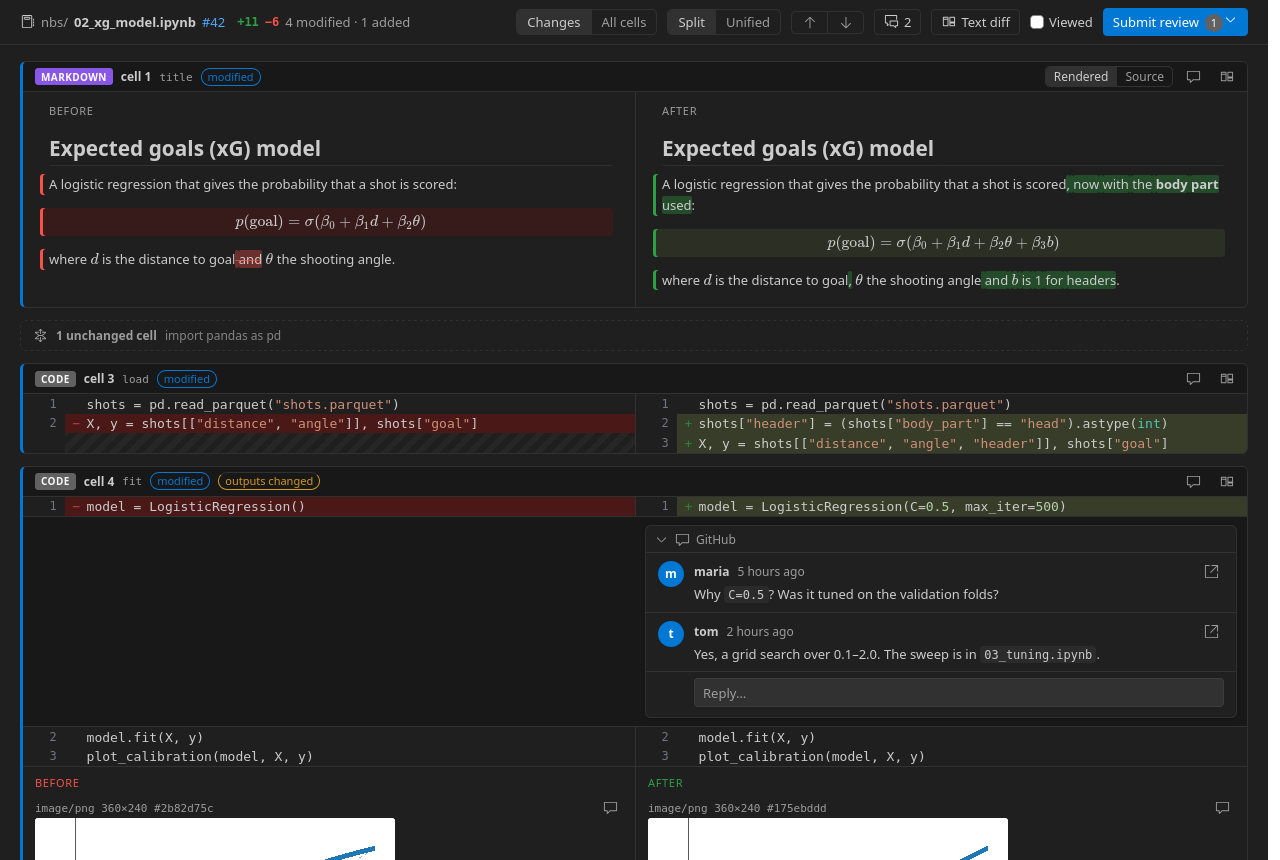
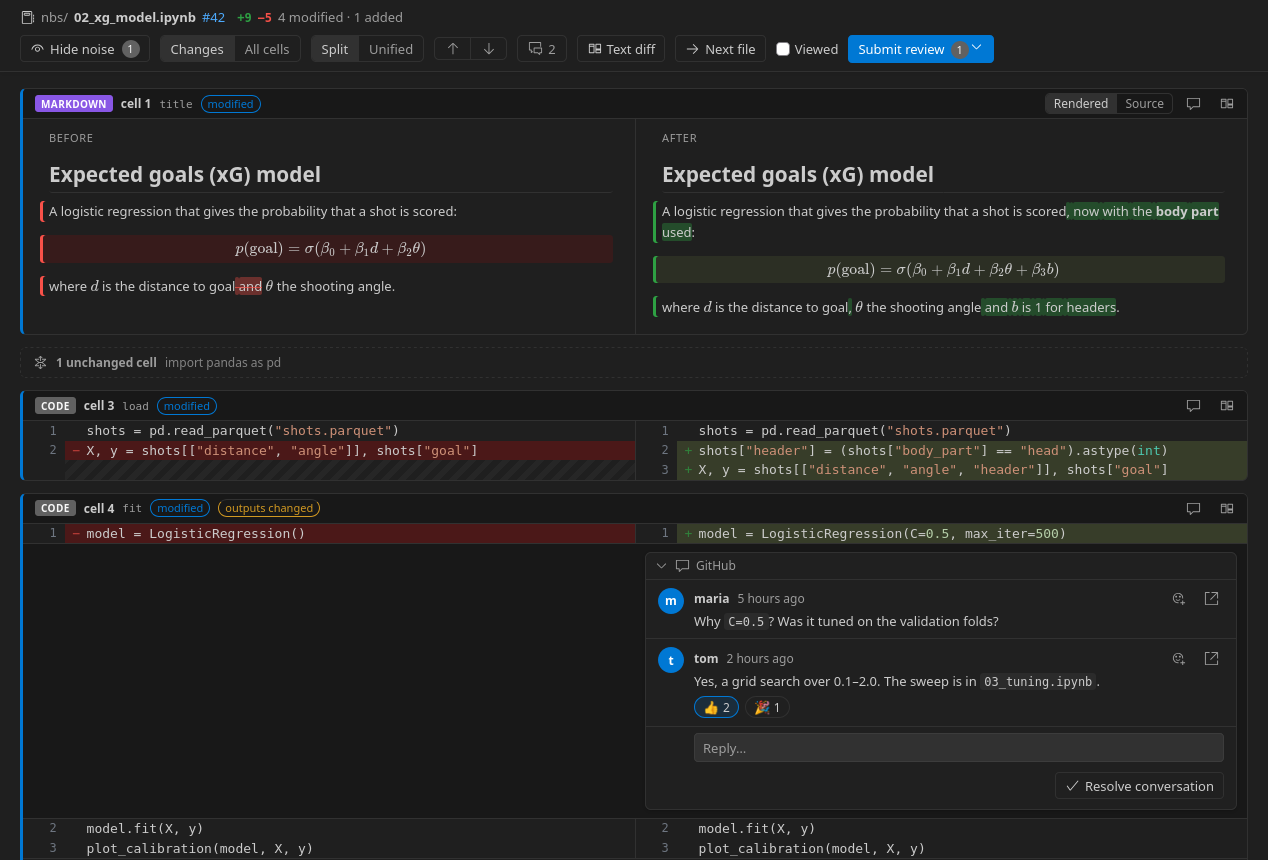
Refresh the README screenshots for 0.11.0
New screenshots from the demo page: the Hide noise switch, a thread with
reactions and Resolve conversation, and a changed plot in the Swipe view.
The demo's sample threads have the fields 0.9.0 added.

diff --git a/scripts/demo.ts b/scripts/demo.ts
@@ -29,9 +29,18 @@ const placed = [
       id: 'thread-1',
       isResolved: false,
       isOutdated: false,
+      viewerCanResolve: true,
+      viewerCanUnresolve: false,
       comments: [
-        { author: 'maria', body: 'Why `C=0.5`? Was it tuned on the validation folds?', createdAt: hoursAgo(5), url: 'https://github.com/', pending: false },
-        { author: 'tom', body: 'Yes, a grid search over 0.1–2.0. The sweep is in `03_tuning.ipynb`.', createdAt: hoursAgo(2), url: 'https://github.com/', pending: false },
+        {
+          id: 'c-1', author: 'maria', body: 'Why `C=0.5`? Was it tuned on the validation folds?', createdAt: hoursAgo(5), url: 'https://github.com/', pending: false,
+          viewerCanUpdate: false, viewerCanDelete: false, reactions: [],
+        },
+        {
+          id: 'c-2', author: 'tom', body: 'Yes, a grid search over 0.1–2.0. The sweep is in `03_tuning.ipynb`.', createdAt: hoursAgo(2), url: 'https://github.com/', pending: false,
+          viewerCanUpdate: false, viewerCanDelete: false,
+          reactions: [{ content: 'THUMBS_UP', count: 2, viewerHasReacted: true }, { content: 'HOORAY', count: 1, viewerHasReacted: false }],
+        },
       ],
     },
   },
@@ -44,11 +53,16 @@ const placed = [
       id: 'thread-2',
       isResolved: false,
       isOutdated: false,
+      viewerCanResolve: false,
+      viewerCanUnresolve: false,
       subjectType: 'LINE',
       path,
       line: 48,
       comments: [
-        { id: 'pending-1', author: 'you', body: 'The curve is **much closer to the diagonal** now. Can we add the Brier score next to it?', createdAt: hoursAgo(0.1), url: '', pending: true },
+        {
+          id: 'pending-1', author: 'you', body: 'The curve is **much closer to the diagonal** now. Can we add the Brier score next to it?', createdAt: hoursAgo(0.1), url: '', pending: true,
+          viewerCanUpdate: true, viewerCanDelete: true, reactions: [],
+        },
       ],
     },
   },
@@ -108,7 +122,7 @@ window.acquireVsCodeApi = () => ({
 deliver({ type: 'model', model: window.__MODEL__ });
 deliver({ type: 'threads', threads: window.__THREADS__ });
 deliver({ type: 'state', state: { viewed: false, pending: 1, pendingReview: true } });
-// Scenes for the README screenshots: index.html#outputs, #comment, #submit.
+// Scenes for the README screenshots: index.html#outputs (a changed plot), #comment, #submit.
 const scene = location.hash.slice(1);
 // Headless Firefox captures from the top of the page, so a scene hides the cells above its subject.
 const scrollTo = el => {
@@ -118,6 +132,9 @@ const scrollTo = el => {
   }
 };
 if (scene === 'outputs') {
+  // The changed plot, in the Swipe view: the old curve left of the divider, the new one right.
+  const swipe = [...document.querySelectorAll('section.cell[data-key="fit"] .image-compare .segmented button')].find(b => b.textContent === 'Swipe');
+  swipe.click();
   scrollTo(document.querySelector('section.cell[data-key="fit"] .outputs'));
 }
 if (scene === 'comment') {

diff --git a/README.md b/README.md
@@ -2,7 +2,7 @@
 
 Review the Jupyter notebooks (`.ipynb`) in a GitHub pull request inside VS Code, cell by cell, and leave review comments on code, Markdown and outputs that appear on GitHub as a normal pull request review.
 
-![Visual review of a Jupyter notebook pull request: rendered Markdown with LaTeX, a code diff and a GitHub review thread](images/overview.png)
+![Visual review of a Jupyter notebook pull request: rendered Markdown with LaTeX and changed words marked, a code diff, and a GitHub review thread with reactions and Resolve conversation](images/overview.png)
 
 ## Why
 
@@ -36,7 +36,7 @@ Notebook Review fixes this inside the editor you already use. It reads the pull 
 
 ![Commenting on a line of a notebook code cell; the box shows where the comment will land on GitHub](images/comment.png)
 
-![Changed plot output before and after, with a pending review comment on the new plot](images/outputs.png)
+![A changed plot in the Swipe view: the old curve left of the divider and the new one right, with a pending review comment on the new plot](images/outputs.png)
 
 ![Finish your review: a summary, Comment, Approve or Request changes](images/submit.png)
 
